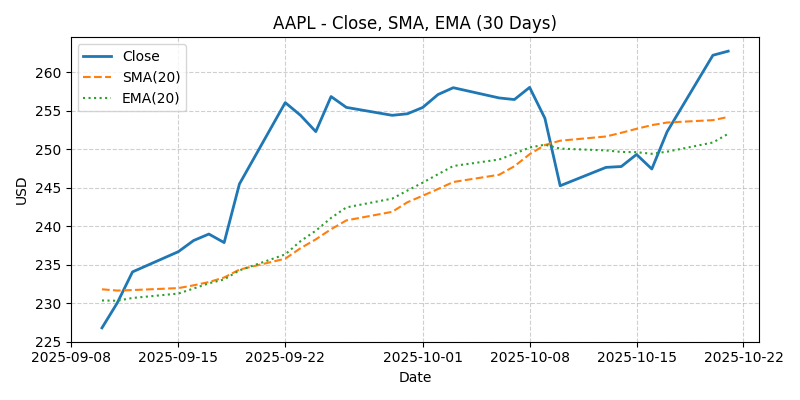
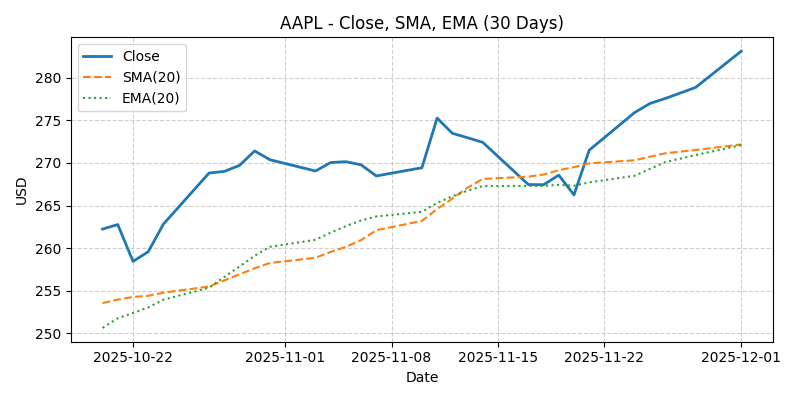
tested and added README.md file

diff --git a/README.md b/README.md
@@ -1,0 +1,157 @@
+# AI Quant Stock Advisor
+
+A free, web-based financial analysis application that combines technical stock analysis with AI-powered recommendations. It leverages real-time market data and machine learning to provide actionable trading insights.
+
+## Overview
+
+AI Quant Stock Advisor integrates real-time market data from Alpha Vantage with OpenAI's GPT-4o to deliver professional-grade technical analysis and trading recommendations. The application features a clean, interactive web interface built with Gradio.
+
+## Core Functionality
+
+### Data Fetching & Technical Indicators
+
+- **Alpha Vantage Integration**: Fetches real-time and historical stock data using the free Alpha Vantage API
+- **Technical Indicators Analyzed**:
+  - **SMA (Simple Moving Average)**: 20-period average to identify trends
+  - **EMA (Exponential Moving Average)**: 20-period weighted average for responsiveness
+  - **RSI (Relative Strength Index)**: Momentum indicator identifying overbought/oversold conditions
+  - **MACD (Moving Average Convergence Divergence)**: Tracks momentum and potential trend changes
+  - **Daily Price Data**: Open, High, Low, Close, and Volume
+
+### Data Processing Pipeline
+
+- Aggregates multiple technical indicators into a unified DataFrame
+- Performs data validation and type conversion
+- Sorts and indexes data by date for time-series analysis
+- Gracefully handles missing data from API responses
+
+### Technical Analysis & Visualization
+
+- Generates 30-day price charts with overlaid indicators (Close, SMA, EMA)
+- Interprets technical signals:
+  - **Trend Detection**: Compares closing price against SMA
+  - **RSI Status**: Categorizes as Overbought (>70), Oversold (<30), or Neutral
+  - **MACD Interpretation**: Bullish if MACD > Signal line, otherwise Bearish
+
+### AI-Powered Recommendation Engine
+
+- Integrates **OpenAI GPT-4o** to generate professional financial analysis
+- Synthesizes technical summary and provides **Buy/Hold/Sell recommendations**
+- Uses system prompts to ensure factual, professional output
+
+### User Interface
+
+- **Interactive Web App** with clean tabbed layout
+- **Input Section**: Stock symbol entry (e.g., AAPL, MSFT, TSLA)
+- **Output Tabs**:
+  - **📊 Summary & Chart**: Technical metrics + 30-day price chart
+  - **🤖 AI Recommendation**: AI-generated analysis and trading advice
+- Responsive design with custom CSS styling
+
+## Technology Stack
+
+| Component | Technology |
+|-----------|-----------|
+| **Backend Framework** | Python 3.x |
+| **UI Framework** | Gradio |
+| **Data Processing** | Pandas, NumPy |
+| **Visualization** | Matplotlib |
+| **Market Data** | Alpha Vantage API (free tier) |
+| **AI Model** | OpenAI GPT-4o |
+| **API Requests** | Requests library |
+| **Configuration** | python-dotenv |
+
+## Key Features
+
+✅ **Free to Use**: Leverages free-tier APIs  
+✅ **Real-time Analysis**: Live market data integration  
+✅ **Multi-indicator Support**: Combines 4 major technical indicators  
+✅ **AI-Powered Insights**: Professional-grade recommendations  
+✅ **Visual Dashboard**: Interactive charts and summaries  
+✅ **Emoji-Enhanced**: User-friendly visual indicators  
+
+## Installation
+
+### Prerequisites
+
+- Python 3.8 or higher
+- pip (Python package manager)
+
+### Setup Steps
+
+1. **Clone the repository** (or navigate to your project directory):
+   ```bash
+   cd stock-advisor
+   ```
+
+2. **Install dependencies**:
+   ```bash
+   pip install -r requirements.txt
+   ```
+
+3. **Create a `.env` file** in the project root with your API keys:
+   ```
+   OPENAI_API_KEY=your_openai_api_key_here
+   ALPHAVANTAGE_API_KEY=your_alphavantage_api_key_here
+   ```
+
+   - Get your **OpenAI API Key** from: https://platform.openai.com/api-keys
+   - Get your **Alpha Vantage API Key** from: https://www.alphavantage.co/
+
+## Running the Application
+
+```bash
+python app.py
+```
+
+The application will launch locally at:
+```
+http://127.0.0.1:7860
+```
+
+Open this URL in your browser to access the Stock Advisor interface.
+
+## API Requirements
+
+- **OpenAI API Key** (`OPENAI_API_KEY`) - For GPT-4o access
+- **Alpha Vantage API Key** (`ALPHAVANTAGE_API_KEY`) - For stock data
+
+Both APIs offer free tiers suitable for testing and development.
+
+## Workflow
+
+1. User enters stock symbol (e.g., AAPL)
+2. App fetches daily OHLCV data + technical indicators from Alpha Vantage
+3. Data aggregated, validated, and processed
+4. 30-day chart generated with indicators
+5. Technical summary calculated (trends, RSI status, MACD signal)
+6. AI analyzes summary and generates Buy/Hold/Sell recommendation
+7. Results displayed in tabbed interface
+
+## Error Handling
+
+- Validates API response structure before processing
+- Returns "Unable to fetch data" message if data unavailable
+- Handles missing indicator data gracefully with defaults
+
+## Project Structure
+
+```
+stock-advisor/
+├── app.py                 # Main application file
+├── requirements.txt       # Python dependencies
+├── README.md             # This file
+└── .env                  # API keys (create this file)
+```
+
+## Contributing
+
+Feel free to submit issues or pull requests to improve the application.
+
+## Disclaimer
+
+This application is for educational and informational purposes only. It is not intended to provide professional investment advice. Always conduct your own research and consult with a financial advisor before making investment decisions.
+
+## License
+
+This project is open source and available under the MIT License.